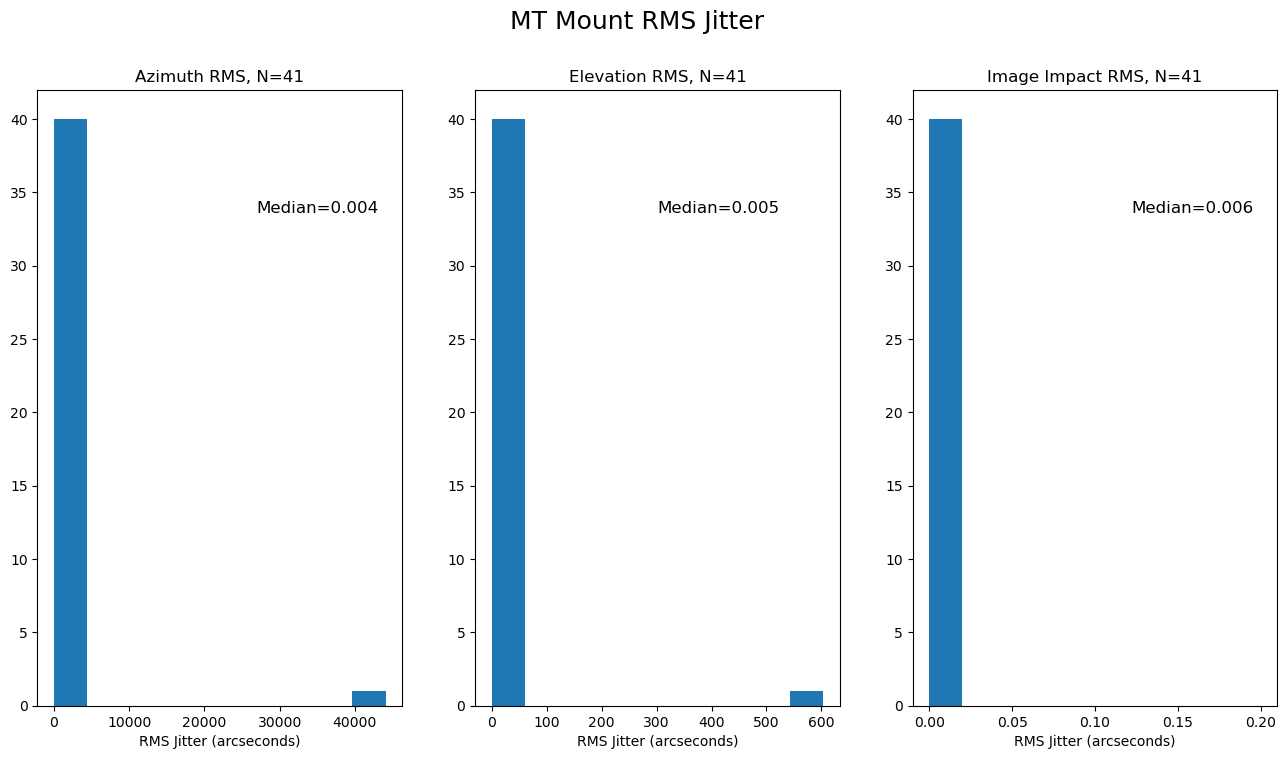
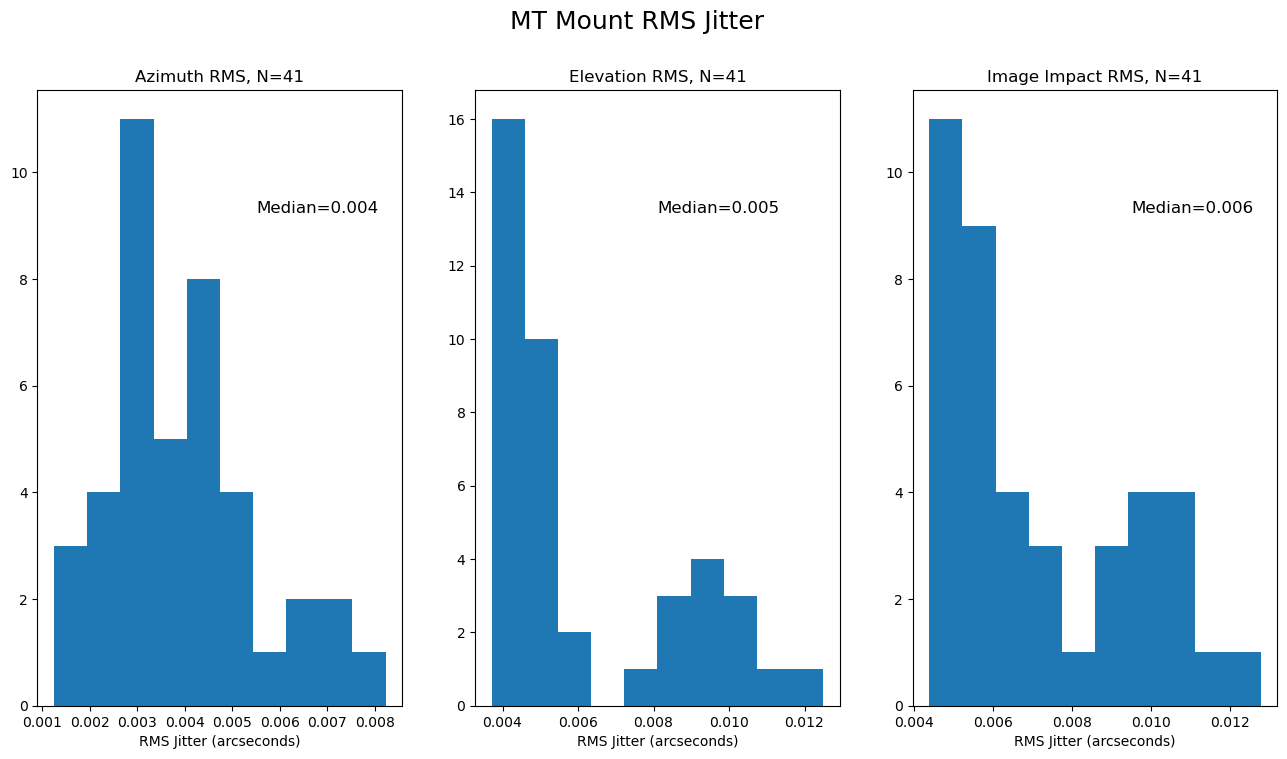
edited to look more explicitly at the requirements

diff --git a/index.rst b/index.rst
@@ -40,7 +40,7 @@ Analysis
 Slew and Settle Tests
 ---------------------
 
-We evaluate the slew and settle performance.  For the first correctly computed offset test we performed on March 9, we seee azimuth and elevation changes are:
+We evaluate the slew and settle performance.  We measure the total amount of time from when MTPtg sends the command to when the mount encoders no longer displays slewing (there is usually about 0.2 seconds between when the command is sent and when the slew begins). For the first accurate offset test we performed on March 9, we seee azimuth and elevation changes are:
 
 .. figure:: /_static/Az_1.png
     :name: fig-az-1
@@ -52,7 +52,7 @@ We evaluate the slew and settle performance.  For the first correctly computed o
 
     Elevation positions for first 3.5 degree offset test on March 9, 2023.
 
-We then isolate the slew times based on when the mount encoder data shows that azimuth or elevation are changing at a sufficiently fast(?) rate. Here is an example plot for the above test:
+We then isolate the slew times based on when the mount encoder data shows that azimuth or elevation are changing at a sufficiently fast rate of greater than 0.1 per readout. Here is an example plot for the above test:
 
 .. figure:: /_static/slew_pos_1.png
     :name: fig-slew-pos
@@ -119,12 +119,12 @@ And additionally we repeat this for tests on March 15, 2023:
     Slew times for 3.5 degree slews for the second 3.5 degree offset test on March 15, 2023.
 
 
-We see that for the 3.5 degree slews, the slew and settle time is always less than 4 seconds.
+We see that for the 3.5 degree slews, the slew and settle time is sometimes above 4 seconds. If there were no delay between when MTPtg sent commands and the slew began, all times would be below 4 s.
 
 Jitter Tests
 ------------
 
-For the jitter tests, we look at how much jitter there is during the StarTracker exposures. Specifically, we fit the azimuth and elevation mount encoder data to a fourth order polynomial and then compute the rms of the residuals. A sample plot is shown here:
+For the jitter tests, we look at how much jitter there is for the first 32 seconds after the slew finishes. Specifically, we fit the azimuth and elevation mount encoder data to a fourth order polynomial and then compute the rms of the residuals. A sample plot is shown here:
 
 .. figure:: /_static/jitter_sample.png
     :name: fig-jitter-sample
@@ -180,9 +180,9 @@ There also seems to be some periodic jitter with frequency of about 1 Hz. This c
 Summary
 =======
 
-Slews of 3.5 degrees are always completed in less than 4 seconds, which is within requirements.
+Slews of 3.5 degrees usually but not always completed within 4 seconds. If the mount responded instantaneously to the slew command being sent, all slews would take less than 4 s.
 
-The jitter is within requirements when we check the mount encoder data and remove outlier datapoints. It is still unclear why these outliers are being read into the EFD.
+The jitter is usually within requirements when we check the mount encoder data and remove outlier datapoints. It is still unclear why these outliers are being read into the EFD.
 
 There may be a ~1 Hz oscillation visible in the fast StarTracker data. We should look at more data and correlate with accelerometer readings to properly do the comparison.
 
